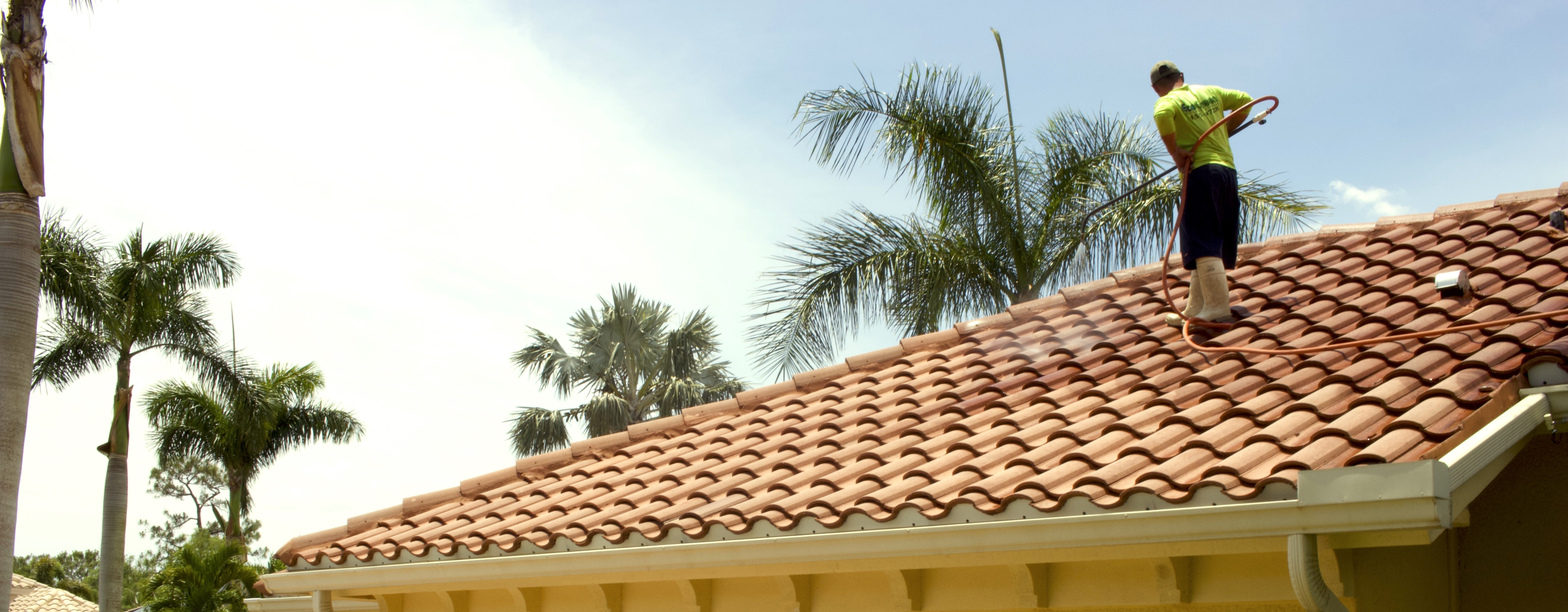
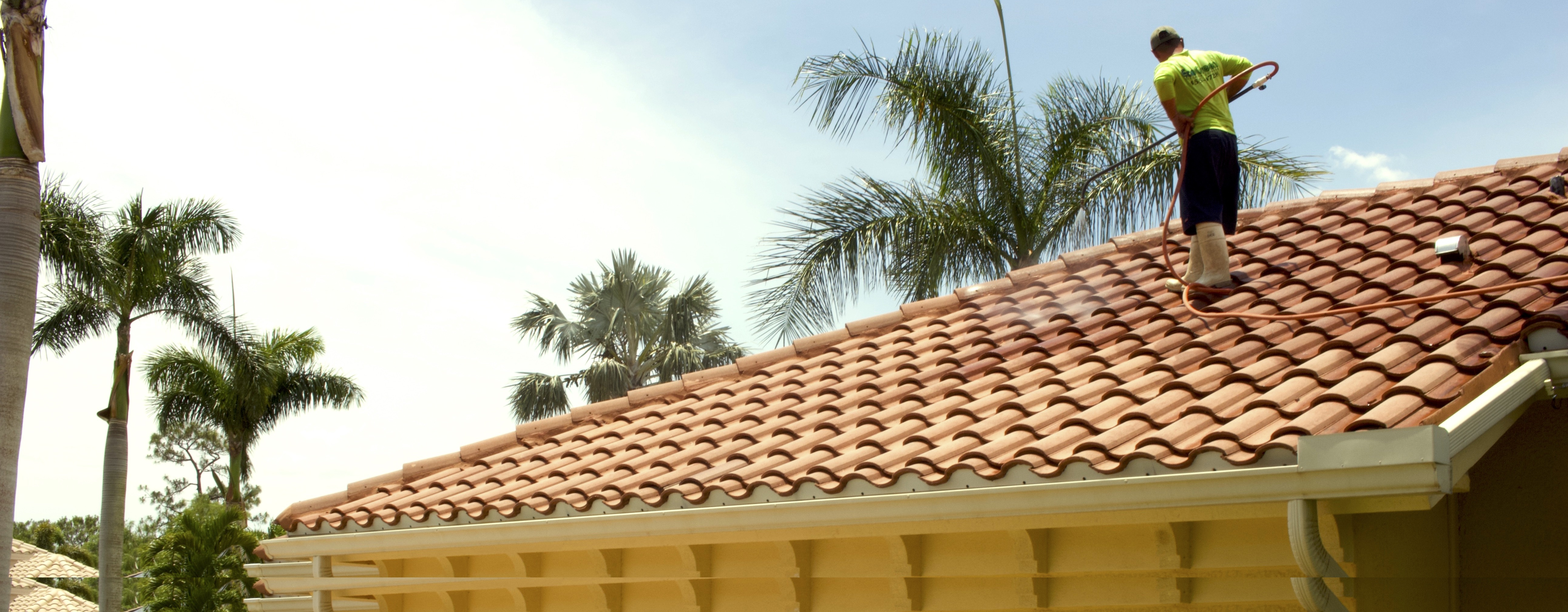
landing2

diff --git a/index.html b/index.html
@@ -82,7 +82,7 @@
 		<div class="main-container">			
 			<section class="header header-10">
 				<div class="background-image-holder">
-					<img alt="Background Image" class="background-image" src="img/jari-hytonen-603264-unsplash.jpg">
+					<img alt="Background Image" class="background-image" src="img/fotoeditada.jpg">
 				</div>
 
 				<!-- <div class="fs-video-wrapper">

diff --git a/css/theme-blue.css b/css/theme-blue.css
@@ -188,7 +188,7 @@ h2 {
   letter-spacing: -1px;
 }
 h3 {
-  font-size: 60px;
+  font-size: 70px;
   line-height: 60px;
   font-weight: bolder;
   letter-spacing: -1px;
